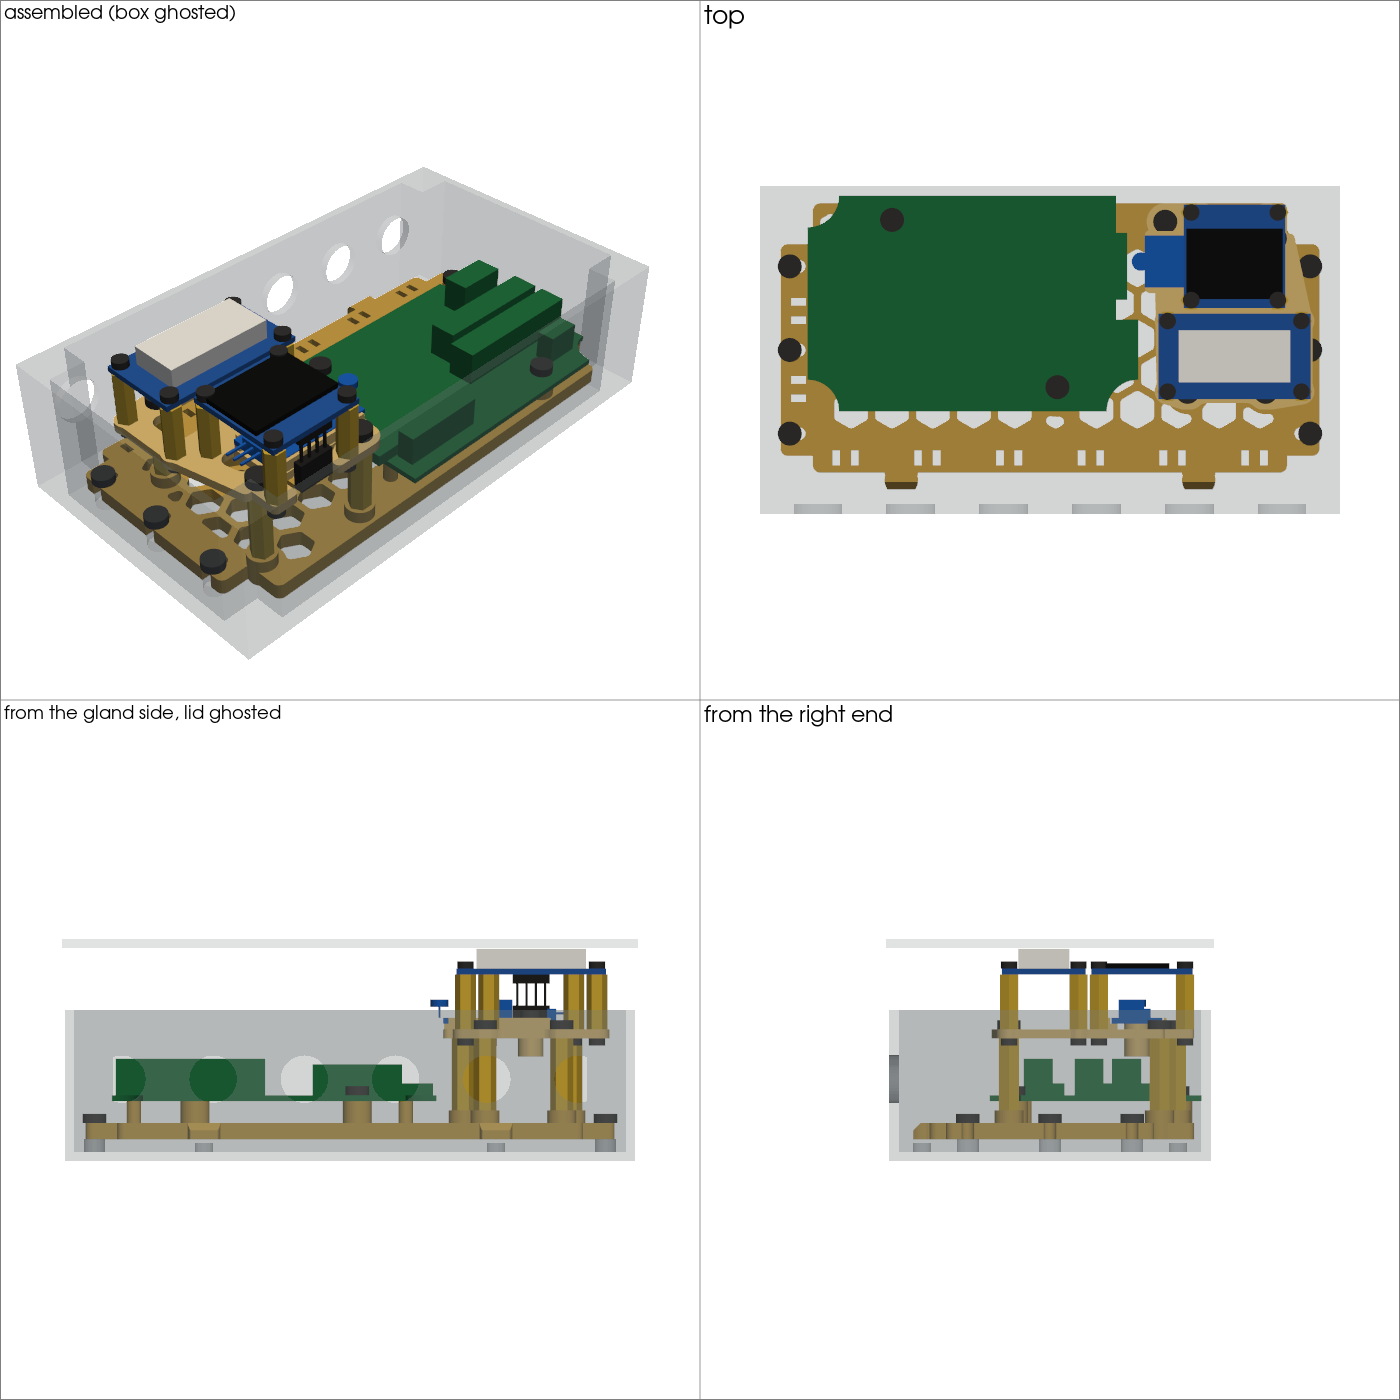
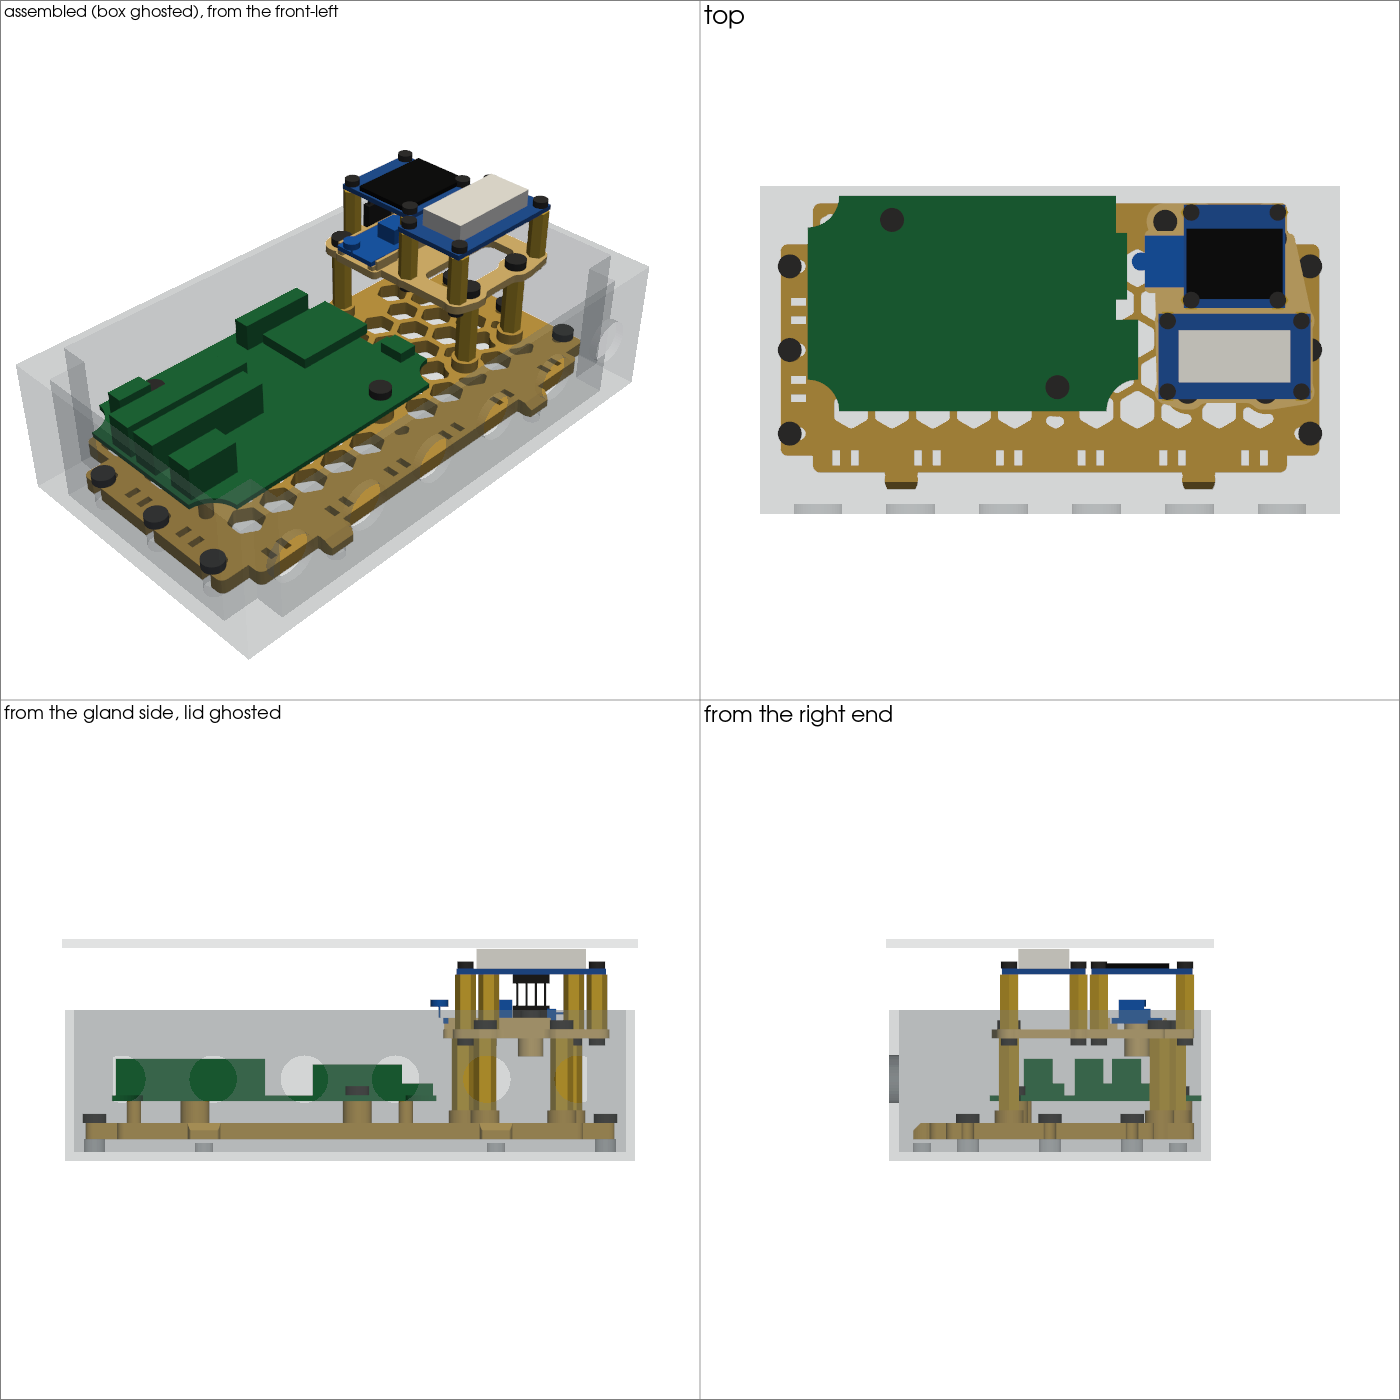
halmet-enclosure-mount: assembly renders from the front-left as well as the back-right

Changed region(s): [[0.0307, 0.0921, 0.43, 0.43], [0.0, 0.0, 0.2457, 0.0307]]

diff --git a/projects/halmet-enclosure-mount/assembly.py b/projects/halmet-enclosure-mount/assembly.py
@@ -62,11 +62,12 @@ def shot(path, panels, size=700):
         p.subplot(i // cols, i % cols)
         scene(p, MESHES, names, explode)
         p.add_text(label, font_size=11)
-        if cam == "iso":
+        if cam in ("iso", "iso_front", "under", "under_front"):   # iso: from the back-right; *_front: the front-left
             p.view_isometric()
-        elif cam == "under":
-            p.view_isometric()
-            p.camera.elevation = -60
+            if cam.endswith("_front"):
+                p.camera.azimuth = 180
+            if cam.startswith("under"):
+                p.camera.elevation = -60
         else:
             p.camera_position = cam
             p.enable_parallel_projection()
@@ -81,9 +82,12 @@ if __name__ == "__main__":
     with tempfile.TemporaryDirectory() as d:
         MESHES = build(Path(d))
     inside = [n for n in PARTS if n != "lid"]
-    shot(OUT / "assembly_tier.png", [("tier, modules on", TIER, False, "iso"), ("tier from below", TIER, False, "under")])
+    shot(OUT / "assembly_tier.png", [("tier from the back-right", TIER, False, "iso"),
+                                     ("tier from the front-left", TIER, False, "iso_front"),
+                                     ("below, from the back-right", TIER, False, "under"),
+                                     ("below, from the front-left", TIER, False, "under_front")])
     shot(OUT / "assembly.png", [
-        ("assembled (box ghosted)", inside, False, "iso"),
+        ("assembled (box ghosted), from the front-left", inside, False, "iso_front"),
         ("top", inside, False, "xy"),
         ("from the gland side, lid ghosted", list(PARTS), False, "xz"),
         ("from the right end", list(PARTS), False, "yz"),
